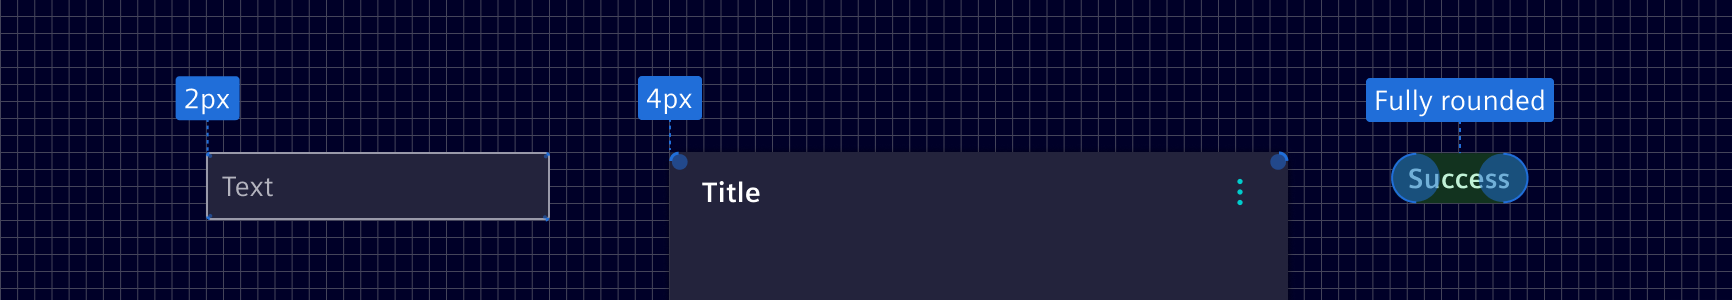
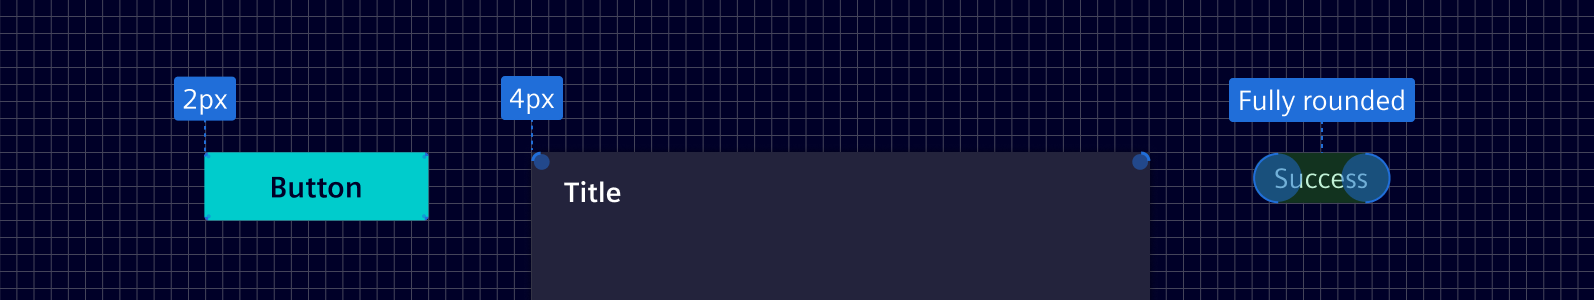
docs(shapes): update ux docs

Changed region(s): [[0.0, 0.0, 0.4918, 1.0], [0.5226, 0.0, 0.9837, 1.0]]

diff --git a/docs/fundamentals/shapes.md b/docs/fundamentals/shapes.md
@@ -4,24 +4,18 @@ A shape is the form of an object. Shapes are used to identify components, direct
 
 ## Usage ---
 
-*Element* is primarily comprised of *circles* and *rectangles*. A set of standard shapes and sizes is used across the system.
-Shapes are an essential component of the *Element* brand.
-
-### Rectangles
-
-Rectangle shapes are used in buttons, headers, navigation menus and tabs.
-
-![Shapes - Rectangles](images/shapes-rectangles.png)
+Element is primarily comprised of circles and rounded rectangles. A set of standard shapes and sizes is used across the system.
+Shapes are an essential component of the Element brand.
 
 ### Rounded rectangles
 
 Rounded rectangles maintain a rectangular shape with softened corners. The corner radius varies depending on the element:
 
-- `2px radius`: Used for subtle softness while retaining a rectangular look, such as in inputs.
+- `2px radius`: Used for subtle softness while retaining a rectangular look, such as in buttons and inputs.
 - `4px radius`: The default for container elements like cards.
 - `100% radius` (fully rounded): Used for pill-shaped elements, like badges.
 
-![Shapes - Rounded Rectangles](images/shapes-rounded.png)
+![Shapes - rounded rectangles](images/shapes-rounded.png)
 
 ### Circles
 
@@ -53,7 +47,7 @@ classes.
 
 <si-docs-component example="shapes/shapes" height="300"></si-docs-component>
 
-### Sass Variables
+### Sass variables
 
 The shape tokens for each *Element* shape can also be alternatively used as SCSS
 variables within stylesheets.
